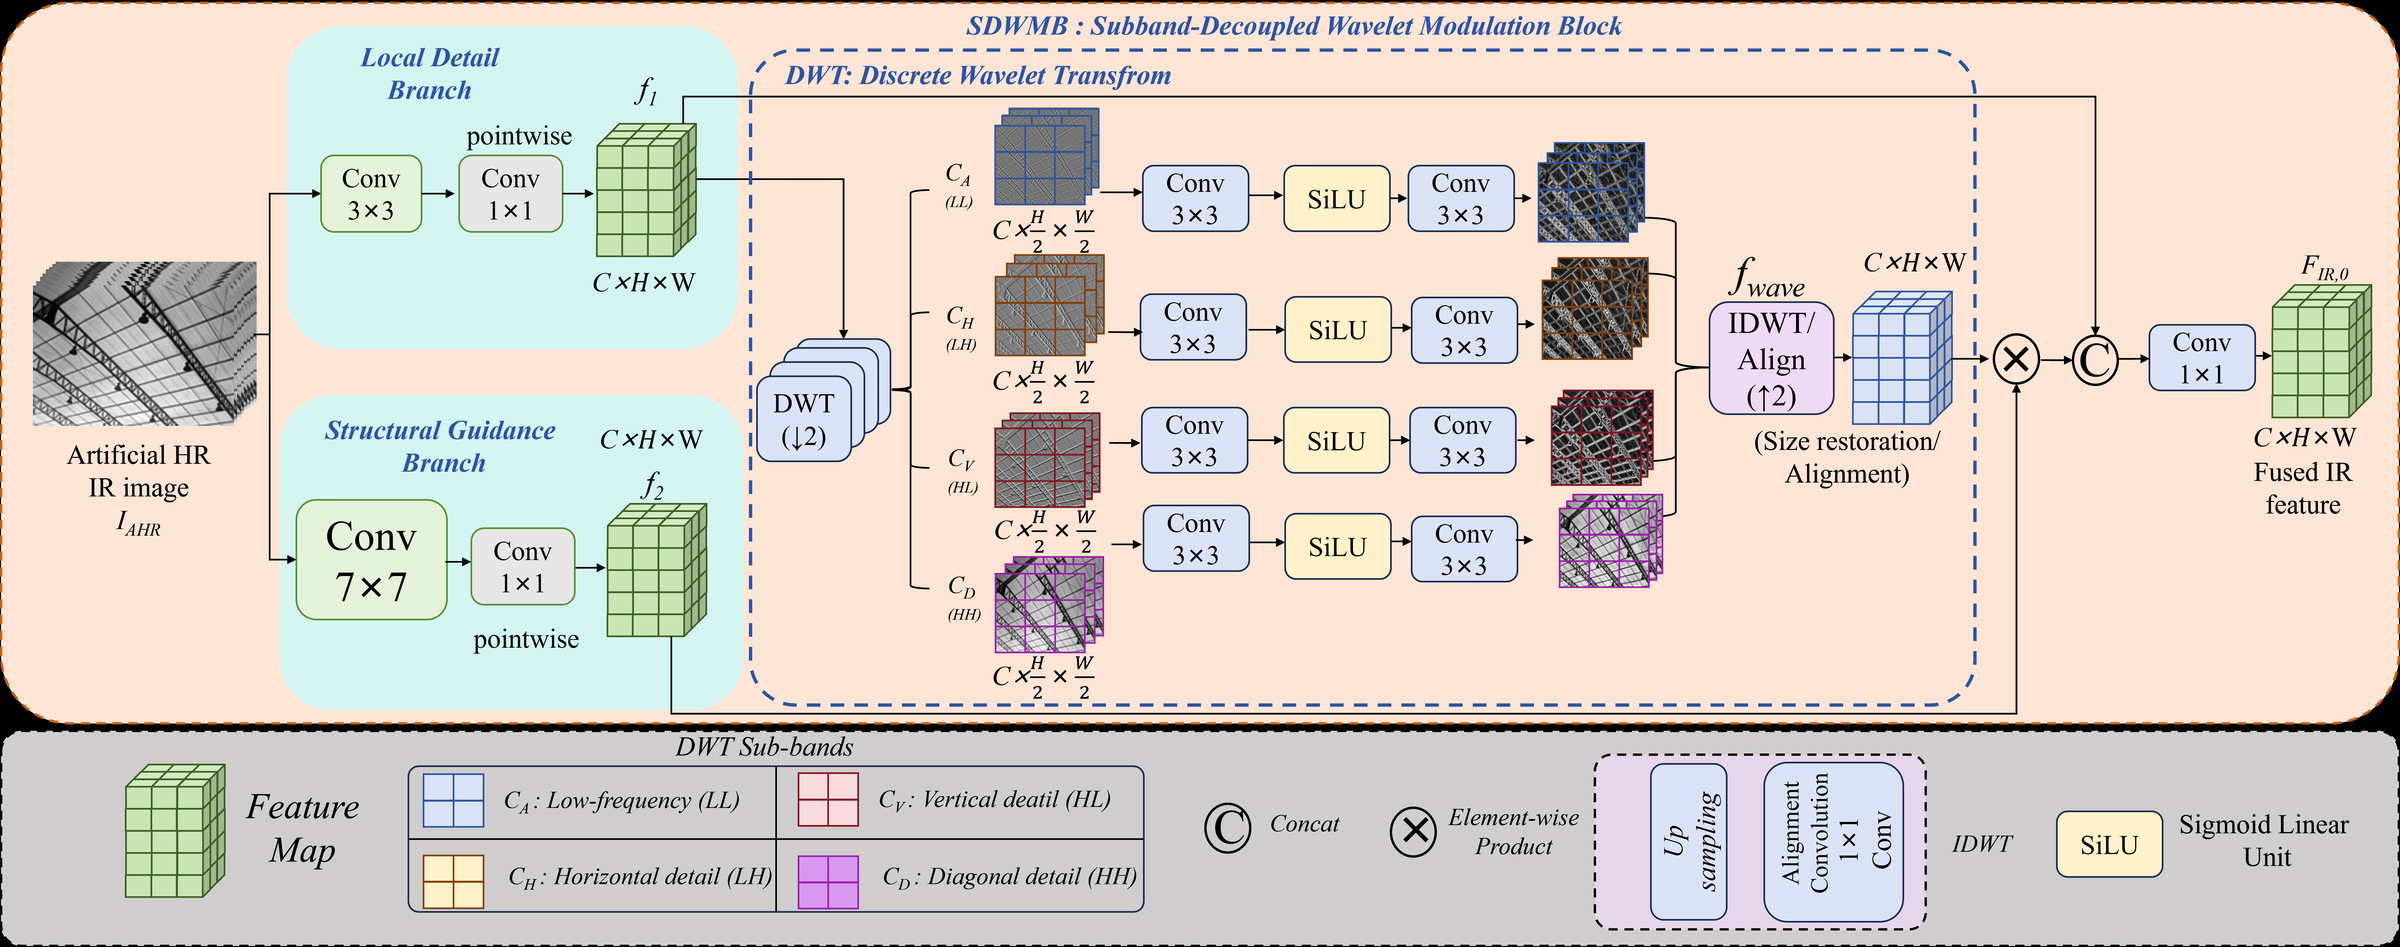
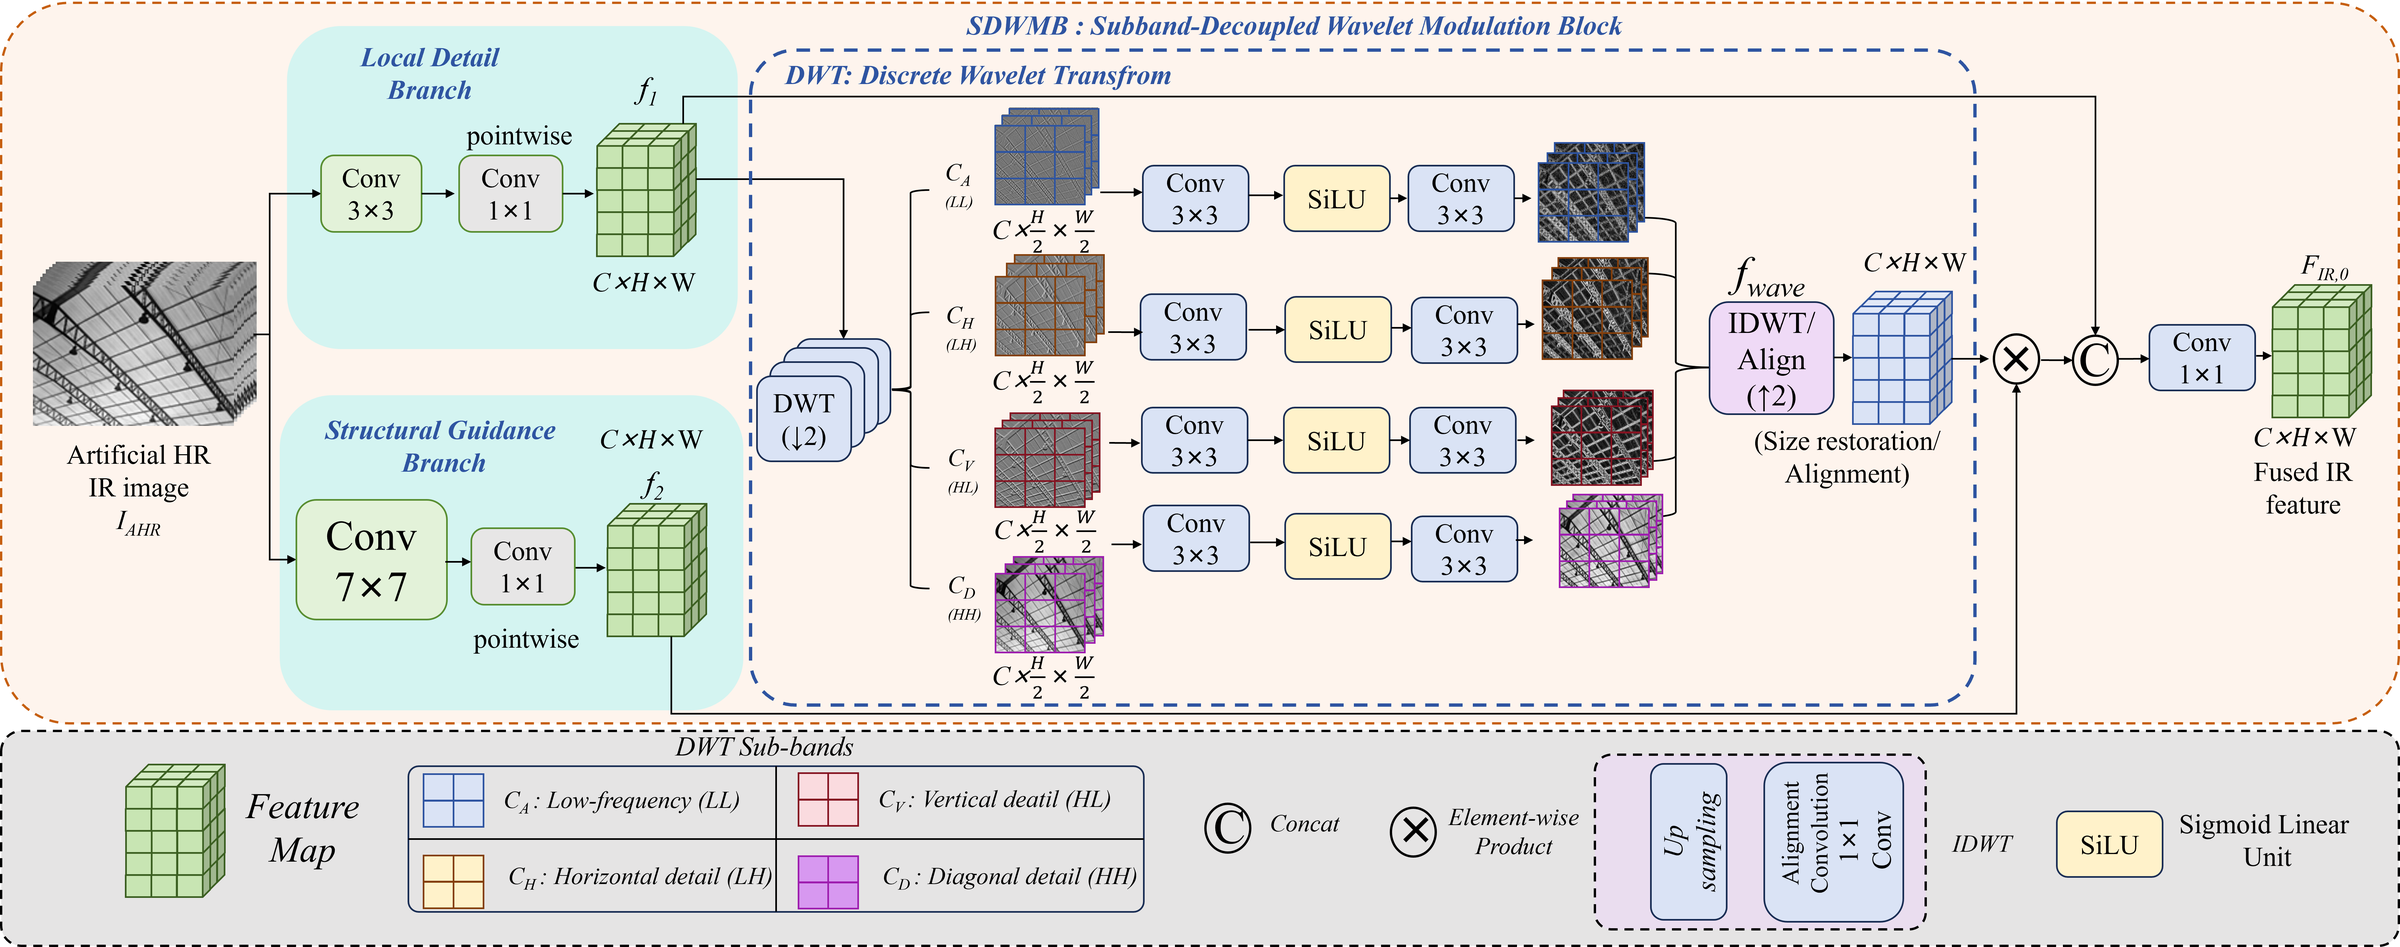
Refine figures and add experiment visuals

diff --git a/README.md b/README.md
@@ -56,6 +56,18 @@ Mean PSNR/SSIM on CIDIS-Test. Learning-based results are averaged over three run
 | SwinPaste | 44.11 | 0.9909 | 36.10 | 0.9527 | 33.29 | 0.9198 |
 | **WDTFuSR** | **44.42** | **0.9912** | **36.46** | **0.9550** | **33.68** | **0.9234** |
 
+### Qualitative Comparison
+
+![Qualitative comparison with guided infrared super-resolution methods](images/guided_method_comparison.png)
+
+WDTFuSR preserves clearer structural details and thermal boundaries than competing guided methods.
+
+### Rotation Robustness
+
+![Robustness to visible-guide rotation](images/rotation_robustness.png)
+
+Reconstruction quality degrades gradually as visible-guide rotation increases, while remaining competitive under moderate misalignment.
+
 ## Figures
 
 ### Subband-Decoupled Wavelet Modulation
@@ -69,12 +81,6 @@ SDWMB independently transforms Haar wavelet sub-bands and restores their spatial
 ![RDCAG](images/rdcag_module.png)
 
 RDCAG combines interlaced window attention, channel recalibration, dense reuse, and a residual path to preserve weak thermal structures.
-
-### Attention-Guided Cross-Domain Fusion
-
-![ACFM](images/acfm_module.png)
-
-ACFM performs bidirectional local cross-attention between infrared and visible streams while retaining both updated representations for reconstruction.
 
 ### LAM Analysis
 
